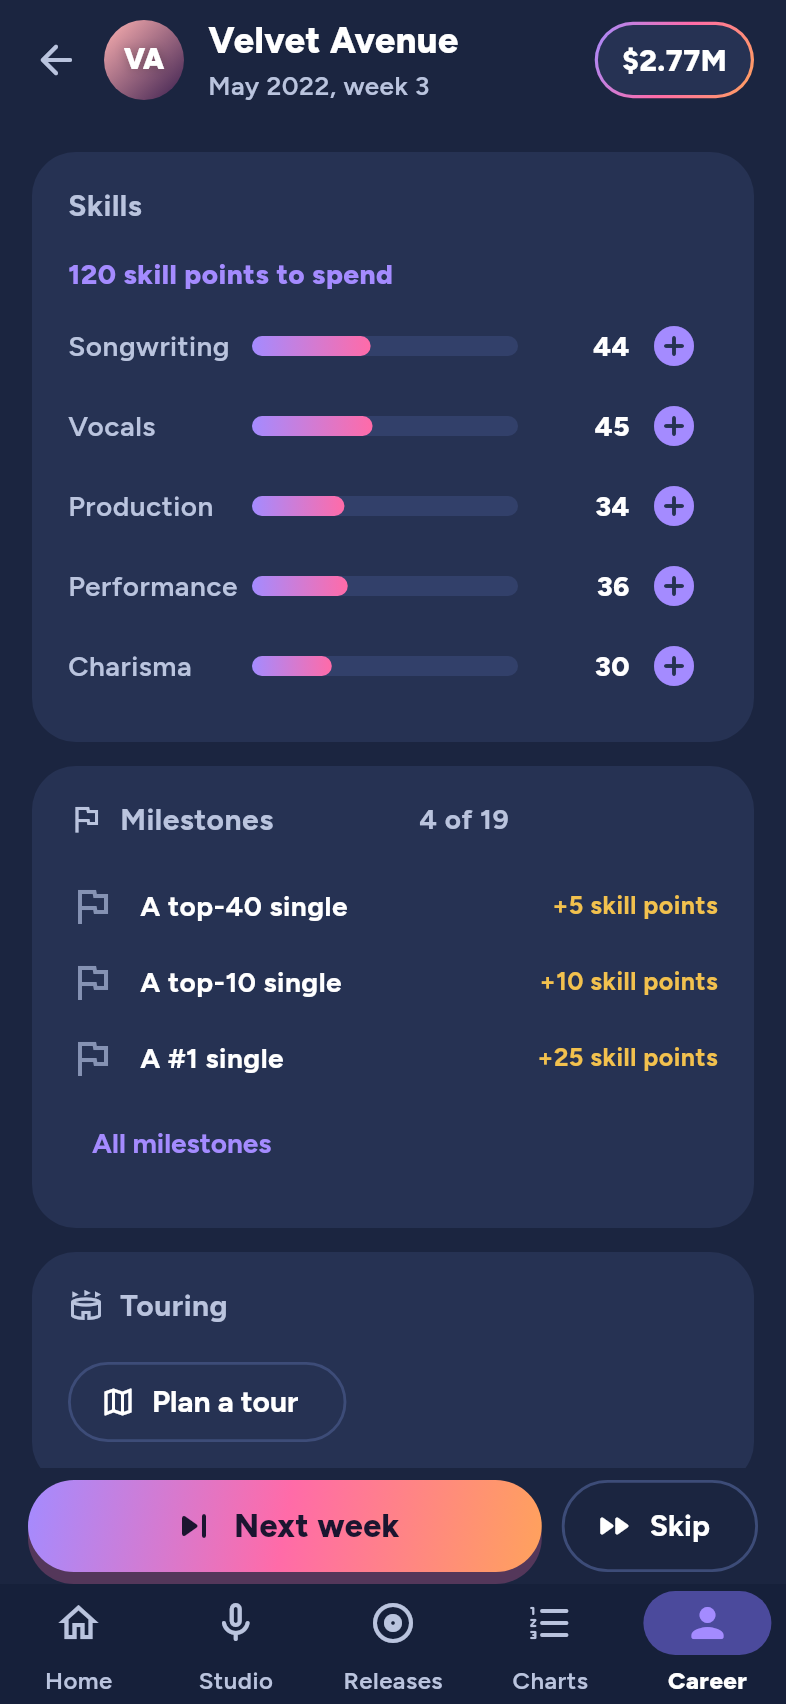
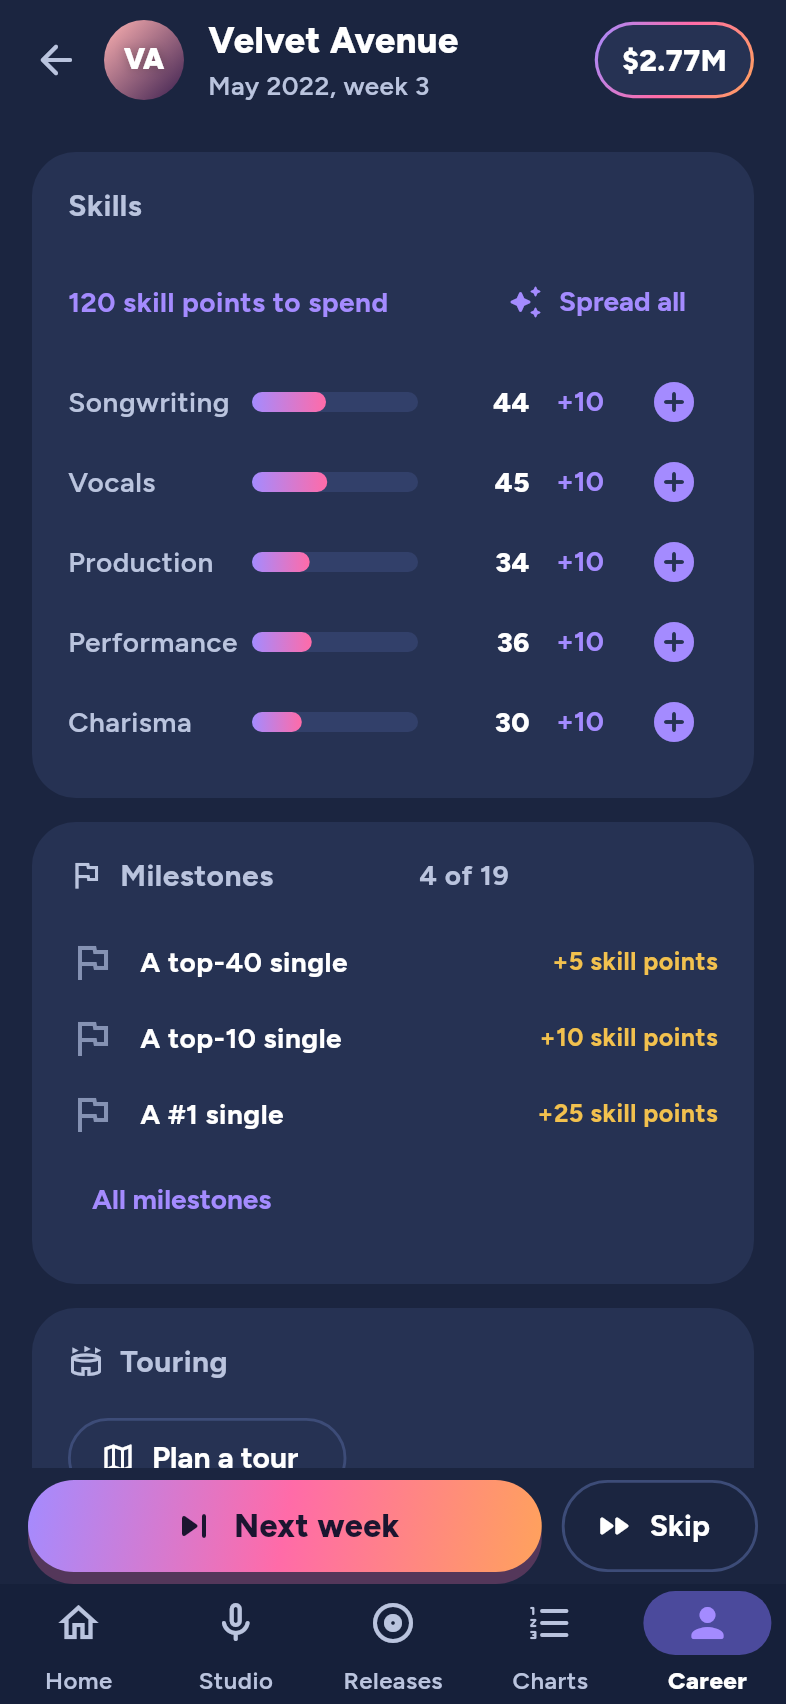
Skill points stop at what the skills can use; +10 and spread-all buttons (F34)
Claude-Session: https://claude.ai/code/session_01UqeaYiXbKvrTFgHV44HcjP

diff --git a/app/lib/screens/career_tab.dart b/app/lib/screens/career_tab.dart
@@ -252,26 +252,44 @@ class SkillsSection extends StatelessWidget {
       SkillKind.performance: l.statPerformance,
       SkillKind.charisma: l.statCharisma,
     };
-    Future<void> raise(SkillKind k) async {
+    Future<void> run(SessionCmd<Object?> cmd) async {
       try {
-        await career.act(Cmd.spendSkillPoint(k));
+        await career.act(cmd);
       } catch (e) {
         if (context.mounted) showError(context, e);
       }
     }
 
+    final maxed =
+        SkillKind.values.every((k) => p.skills[k]! >= Actions.maxSkill);
+
     return Section(
       title: l.skillsTitle,
       child: Column(crossAxisAlignment: CrossAxisAlignment.stretch, children: [
-        Text(
-          p.skillPoints > 0
-              ? l.skillPointsLeft(p.skillPoints)
-              : l.skillPointsHint,
-          style: TextStyle(
-              color: p.skillPoints > 0 ? AppColors.lilac : AppColors.textMuted,
-              fontWeight:
-                  p.skillPoints > 0 ? FontWeight.w800 : FontWeight.w500),
-        ),
+        Row(children: [
+          Expanded(
+            child: Text(
+              p.skillPoints > 0
+                  ? l.skillPointsLeft(p.skillPoints)
+                  : maxed
+                      ? l.skillsMaxed
+                      : l.skillPointsHint(Actions.skillPointsPerWeek),
+              style: TextStyle(
+                  color:
+                      p.skillPoints > 0 ? AppColors.lilac : AppColors.textMuted,
+                  fontWeight:
+                      p.skillPoints > 0 ? FontWeight.w700 : FontWeight.w500),
+            ),
+          ),
+          // Many points at once, lowest skill first (docs F34).
+          if (p.skillPoints > 1)
+            TextButton.icon(
+              onPressed:
+                  career.busy ? null : () => run(Cmd.spreadSkillPoints()),
+              icon: const Icon(Icons.auto_awesome_rounded, size: 18),
+              label: Text(l.skillsSpreadAll),
+            ),
+        ]),
         const SizedBox(height: 6),
         for (final k in SkillKind.values)
           Row(children: [
@@ -282,12 +300,29 @@ class SkillsSection extends StatelessWidget {
                   text: p.skills[k]!.floor().toString()),
             ),
             SizedBox(
+              width: 50,
+              child: p.skillPoints > 1 && p.skills[k]! < Actions.maxSkill - 1
+                  ? TextButton(
+                      style: TextButton.styleFrom(
+                          padding: EdgeInsets.zero,
+                          visualDensity: VisualDensity.compact),
+                      onPressed: career.busy
+                          ? null
+                          : () => run(Cmd.spendSkillPoints(k, 10)),
+                      child: Text('+10',
+                          semanticsLabel: l.skillRaiseMany(names[k]!, 10)),
+                    )
+                  : null,
+            ),
+            SizedBox(
               width: 44,
               child: p.skillPoints > 0 && p.skills[k]! < Actions.maxSkill
                   ? IconButton(
                       tooltip: l.skillRaise(names[k]!),
                       visualDensity: VisualDensity.compact,
-                      onPressed: () => raise(k),
+                      onPressed: career.busy
+                          ? null
+                          : () => run(Cmd.spendSkillPoint(k)),
                       icon: Icon(Icons.add_circle_rounded,
                           color: AppColors.lilac),
                     )

diff --git a/packages/simulation_core/lib/src/actions.dart b/packages/simulation_core/lib/src/actions.dart
@@ -53,8 +53,47 @@ abstract final class Actions {
   static void spendSkillPoint(Artist a, SkillKind kind) {
     if (a.skillPoints <= 0) throw ActionException('No skill points');
     if (a.skills[kind] >= maxSkill) throw ActionException('Skill is maxed');
-    a.skills[kind] = math.min(maxSkill, a.skills[kind] + 1);
-    a.skillPoints--;
+    spendSkillPoints(a, kind, 1);
+  }
+
+  /// Points still useful for [kind]: what it lacks to [maxSkill].
+  static int skillRoomFor(Artist a, SkillKind kind) =>
+      math.max(0, (maxSkill - a.skills[kind]).ceil());
+
+  /// Points the artist could still use on all skills (docs F34).
+  static int skillRoom(Artist a) =>
+      SkillKind.values.fold(0, (t, k) => t + skillRoomFor(a, k));
+
+  /// Adds earned points, never more than the skills can still use: once
+  /// every skill is at [maxSkill] points stop piling up (docs F34).
+  static void grantSkillPoints(Artist a, int points) {
+    a.skillPoints = math.min(a.skillPoints + points, skillRoom(a));
+  }
+
+  /// Spends up to [count] points on [kind]; returns how many were spent.
+  static int spendSkillPoints(Artist a, SkillKind kind, int count) {
+    final n = math.min(count, math.min(a.skillPoints, skillRoomFor(a, kind)));
+    if (n <= 0) return 0;
+    a.skills[kind] = math.min(maxSkill, a.skills[kind] + n);
+    a.skillPoints -= n;
+    return n;
+  }
+
+  /// Spends every point, always on the lowest skill (docs F34).
+  static int spreadSkillPoints(Artist a) {
+    var spent = 0;
+    while (a.skillPoints > 0) {
+      SkillKind? low;
+      for (final k in SkillKind.values) {
+        if (a.skills[k] < maxSkill &&
+            (low == null || a.skills[k] < a.skills[low])) {
+          low = k;
+        }
+      }
+      if (low == null) break;
+      spent += spendSkillPoints(a, low, 1);
+    }
+    return spent;
   }
 
   /// Energy gained at the end of a week (before the job's cost).

diff --git a/packages/simulation_core/test/simulation_test.dart b/packages/simulation_core/test/simulation_test.dart
@@ -345,6 +345,32 @@ void main() {
     expect(a.moneyCents - money, greaterThan(done.netCents * 0.9));
   });
 
+  test('skill points stop at what the skills can use (F34)', () {
+    final w = WorldGen.create(seed: 34, startYear: 2015);
+    final p = WorldGen.addPlayer(w,
+        name: 'P', genre: 0, tier: StartTier.unknown, money: StartMoney.basic);
+    for (final k in SkillKind.values) {
+      p.skills[k] = 95;
+    }
+    Actions.grantSkillPoints(p, 1000);
+    expect(p.skillPoints, 25);
+    // Many at once, never past 100.
+    expect(Actions.spendSkillPoints(p, SkillKind.vocals, 10), 5);
+    expect(p.skills[SkillKind.vocals], Actions.maxSkill);
+    expect(p.skillPoints, 20);
+    // Spread: always the lowest skill, until all are full.
+    p.skills[SkillKind.charisma] = 90;
+    Actions.grantSkillPoints(p, 1000);
+    expect(p.skillPoints, 25); // 5 + 5 + 5 + 10 still to learn
+    expect(Actions.spreadSkillPoints(p), 25);
+    for (final k in SkillKind.values) {
+      expect(p.skills[k], Actions.maxSkill);
+    }
+    // Nothing left to learn: no more points.
+    Actions.grantSkillPoints(p, Actions.skillPointsPerWeek);
+    expect(p.skillPoints, 0);
+  });
+
   test('artists and collaborators never share a name (C6)', () {
     for (final real in [false, true]) {
       final w = WorldGen.create(seed: 6, startYear: 2015, realNames: real);

diff --git a/app/test/app_flow_test.dart b/app/test/app_flow_test.dart
@@ -134,6 +134,12 @@ void main() {
     await tester.tap(find.byTooltip('Raise Vocals'));
     await tester.pumpAndSettle();
     expect(points(), before - 1);
+    // All the rest at once, lowest skill first (F34).
+    await tester.ensureVisible(find.text('Spread all'));
+    await tester.pumpAndSettle();
+    await tester.tap(find.text('Spread all'));
+    await tester.pumpAndSettle();
+    expect(find.textContaining(left), findsNothing);
   });
 
   testWidgets('free players see Premium starts locked', (tester) async {
@@ -251,7 +257,7 @@ void main() {
     await tester.pumpAndSettle();
     await tester.tap(find.byType(ListTile).last);
     await tester.pumpAndSettle();
-    await tester.tap(find.text('In 4 weeks'));
+    await tester.tap(find.widgetWithText(ChoiceChip, 'In 4 weeks'));
     await tester.pumpAndSettle();
     expect(find.text('Out: January 2024, week 5'), findsOneWidget);
     await tester.tap(find.text('2 weeks before'));
@@ -281,7 +287,7 @@ void main() {
     await tester.pumpAndSettle();
     await tester.tap(find.text('Change date'));
     await tester.pumpAndSettle();
-    await tester.tap(find.text('In 6 weeks'));
+    await tester.tap(find.widgetWithText(ChoiceChip, 'In 6 weeks'));
     await tester.pumpAndSettle();
     await tester.ensureVisible(find.text('Save'));
     await tester.pumpAndSettle();

diff --git a/packages/game/lib/src/game_session.dart b/packages/game/lib/src/game_session.dart
@@ -232,6 +232,11 @@ class GameSession {
       p.labelReach = p.label.reach;
       world.dirtyArtists.add(p.id);
     }
+    // Points piled up before docs F34 shrink to what the skills can use.
+    if (p != null && p.skillPoints > Actions.skillRoom(p)) {
+      p.skillPoints = Actions.skillRoom(p);
+      world.dirtyArtists.add(p.id);
+    }
     return GameSession._(slots, slotId, store, world);
   }
 
@@ -887,6 +892,27 @@ class GameSession {
     }
     Actions.spendSkillPoint(_p, kind);
     _saveNow();
+  }
+
+  /// Spends up to [count] points on [kind] at once (docs F34); returns how
+  /// many were spent.
+  int spendSkillPoints(SkillKind kind, int count) {
+    if (_p.skillPoints <= 0) {
+      throw GameException('noSkillPoints', 'No skill points left');
+    }
+    if (_p.skills[kind] >= Actions.maxSkill) {
+      throw GameException('skillMaxed', 'This skill is maxed');
+    }
+    final n = Actions.spendSkillPoints(_p, kind, count);
+    _saveNow();
+    return n;
+  }
+
+  /// Spends every point, lowest skill first (docs F34).
+  int spreadSkillPoints() {
+    final n = Actions.spreadSkillPoints(_p);
+    _saveNow();
+    return n;
   }
 
   /// Shoots a music video for one of the player's songs (docs K52); it

diff --git a/packages/game/test/game_test.dart b/packages/game/test/game_test.dart
@@ -209,6 +209,25 @@ void main() {
       expect(summary['lastAlbumId'], isNonNegative);
     });
 
+    test('piled-up skill points shrink to what is usable (F34)', () {
+      var g = GameSession.start(slots, _setup());
+      final id = g.slotId;
+      final p = g.world.player!;
+      final room = Actions.skillRoom(p);
+      p.skillPoints = 5000; // as saved before F34
+      g.world.dirtyArtists.add(p.id);
+      g.writeSong(budget: BudgetTier.low); // any action saves
+      g.close();
+      g = GameSession.resume(slots, id);
+      expect(g.player.skillPoints, room);
+      final before = g.player.skills[SkillKind.vocals]!;
+      expect(g.spendSkillPoints(SkillKind.vocals, 10), 10);
+      expect(g.player.skills[SkillKind.vocals], before + 10);
+      expect(g.spreadSkillPoints(), room - 10);
+      expect(g.player.skillPoints, 0);
+      g.close();
+    });
+
     test('older saves get the independent reach of docs K70', () {
       var g = GameSession.start(slots, _setup());
       final id = g.slotId;

diff --git a/app/lib/core/commands.dart b/app/lib/core/commands.dart
@@ -191,6 +191,11 @@ abstract final class Cmd {
   static SessionCmd<void> spendSkillPoint(SkillKind kind) =>
       (s) => s.spendSkillPoint(kind);
 
+  static SessionCmd<int> spendSkillPoints(SkillKind kind, int count) =>
+      (s) => s.spendSkillPoints(kind, count);
+
+  static SessionCmd<int> spreadSkillPoints() => (s) => s.spreadSkillPoints();
+
   static SessionCmd<void> rewardAd() => (s) => s.rewardAd();
 
   static SessionCmd<bool> dailyBonus(bool premium) =>

diff --git a/packages/simulation_core/lib/src/simulator.dart b/packages/simulation_core/lib/src/simulator.dart
@@ -1142,7 +1142,7 @@ class Simulator {
     p.moneyCents += p.manager.net(cents * p.artistShare).round();
     // The label takes no cut of the day job.
     p.moneyCents += p.job.wageCents;
-    p.skillPoints += Actions.skillPointsPerWeek;
+    Actions.grantSkillPoints(p, Actions.skillPointsPerWeek);
     // Side benefits of some jobs (docs K36).
     final s = p.skills;
     switch (p.job) {

diff --git a/packages/game/lib/src/milestones.dart b/packages/game/lib/src/milestones.dart
@@ -135,7 +135,7 @@ enum Milestone {
   bool mark(World w, Artist p) {
     if (p.milestones.containsKey(index)) return false;
     p.milestones[index] = w.week;
-    p.skillPoints += skillPoints;
+    Actions.grantSkillPoints(p, skillPoints);
     w.dirtyArtists.add(p.id);
     return true;
   }

diff --git a/tools/l10n/gen_arb.py b/tools/l10n/gen_arb.py
@@ -671,8 +671,11 @@ k('stepSkillsBody','{count} points waiting. Better skills make better songs.','{
 k('goCareer','Open Career','Kariyere git')
 k('skillsTitle','Skills','Yetenekler')
 k('skillPointsLeft','{count} skill points to spend','Harcanacak {count} yetenek puanı', count='int')
-k('skillPointsHint','You get 1 skill point every week. Each skill goes up to 100.','Her hafta 1 yetenek puanı kazanırsın. Her yetenek 100’e kadar çıkar.')
+k('skillPointsHint','You get {count} skill points every week. Each skill goes up to 100.','Her hafta {count} yetenek puanı kazanırsın. Her yetenek 100’e kadar çıkar.', count='int')
 k('skillRaise','Raise {skill}','{skill} artır', skill='String')
+k('skillRaiseMany','Raise {skill} by {count}','{skill} +{count}', skill='String', count='int')
+k('skillsSpreadAll','Spread all','Hepsini dağıt')
+k('skillsMaxed','Every skill is at 100: there is nothing left to learn, so no more points come.','Bütün yetenekler 100: öğrenecek bir şey kalmadı, artık puan gelmez.')
 k('singleUnits','Single units','Single üniteleri')
 k('singleUnitsHint','Sales + streams ÷ 150','Satış + stream ÷ 150')
 k('stepJobBody','Money is tight. A day job pays every week.','Para azaldı. Gündelik bir iş her hafta maaş öder.')

diff --git a/docs/README.md b/docs/README.md
@@ -99,6 +99,7 @@ Bu kararlar alınmıştır; değiştirmek için bilinçli bir revizyon gerekir.
 | K69 | **Liste savaşı (F9):** oyuncunun albümü (veya single'ı) büyük bir rakibinkiyle (üst lig veya ün ≥ %35) aynı hafta çıkarsa, o haftanın ABD listesinde kimin önde bittiği büyük haber olarak gelir (rakip: o hafta çıkan en büyük rakip yayını). İki şarkı da listeye girmediyse savaş yok. Büyük rakip albümleri 8 hafta önceden bilinir: Yayınlar sekmesinin sonunda "Yaklaşan büyük çıkışlar" listesi var. Çıkış tarihi seçerken o hafta büyük bir rakip albümü varsa "liste savaşı!" uyarısı çıkar; böylece büyük bir isimle kapışmak ya da ondan kaçmak oyuncunun kararı olur. |
 | K70 | **Zorluk (F30, F32):** Ölçüm aracı `packages/game/tool/career_probe.dart` (6 dünya, makul bir oyuncu stratejisi: beceri puanları, reklam, yoksulken iş, en iyi uygun ekip, 6 haftada bir single, yılda bir albüm). Bedava başlangıç 2010, Gerçekçi: bugünkü değişikliklerden önce 4. yılda Top 10 hit ve ~$2,4M; K66 sonrası 4 yılda **hiç hit yok**, $64K. Sebep: gerçek isimli dünyada rakip kitlesi daha büyüktü (gerçek sanatçıların çoğu ABD'li, gerçek yıldızlara ekstra hayran/hype, kurucu yıldızlara A becerisi, kalıcı yüksek plak erişimi birikiyordu): aynı şarkılar Kuzey Amerika'da ~%27 az dinlendi. Düzeltmeler: (1) Gerçek sanatçı, rakip yerinin zar atılmış ülkesinden seçilir (uydurma dünyanın ülke karışımı korunur). (2) Gerçek yıldıza ekstra hayran ve hype yok; A becerisi ve yüksek plak erişimi sadece çıkış yaptığı yıl gelen yıldızlara; erişim 6 yıl sonra 1,0'a iner (`realStarPushYears`). Gerçek ve uydurma dünya kitlesi artık ±%5 (test). 2018–2021 #1'leri yine dönemin yıldızları (Billie Eilish, Lil Baby, Morgan Wallen, Khalid…). (3) Bağımsız plak erişimi 0,7 → **0,85** (0,7 ile şirketsiz liste neredeyse imkânsızdı, küçük şirkete girince ise 2. yılda her şey #1 oluyordu); eski kayıtlarda oyuncunun erişimi açılışta şirketine göre güncellenir. (4) Oyuncunun fame'i popülerliğe haftada %2 yerine **%4** yaklaşır (rakipler %2'de kalır). Sonuç (bedava, bağımsız, Gerçekçi): 1–2. yıl hit yok, 3. yılda ilk Top 10, 4. yıl ~$8M ve fame ~%16, 5. yılda fame ~%43–50; küçük şirketle her şey ~1 yıl önce. 4–5. yıldan sonra hakimiyet hâlâ hızlı (F24, Emir'le konuşulacak). JT tekrarı (Gerçekçi): toplam 107M albüm birimi, FS/LS ilk hafta 910K. |
 | K71 | **Kasadaki taslak albümler (F31):** Albüm/EP/mixtape oluşturucuda "Kasada sakla": isim, parçalar, versiyonlar ve kapak hazır, tarih yok. Hiçbir şey ödenmez, şarkılar başka albüme konamaz (ama single olarak çıkabilir), yıllarca bekleyebilir. Releases sekmesinde "Kasadaki taslaklar": şimdi yayınla (kampanya seçilir), tarih seç (normal zamanlama ve duyuru; kampanya ve versiyonlar o an ödenir) ya da sil (şarkılar kasaya döner). Taslağın kapağı yayınlanan albüme geçer. Motor: tarihi olmayan zamanlanmış yayın (`ScheduledRelease.draftWeek`), haftalık zamanlayıcı onu hiç çıkarmaz. |
+| K72 | **Yetenek puanı sınırı ve toplu harcama (F34):** Kazanılan puan (haftalık 5 ve kilometre taşları) en fazla yeteneklerin 100'e kalan toplamı kadar birikir; bütün yetenekler 100 olunca puan gelmez ve ekranda "öğrenecek bir şey kalmadı" yazar. Eski kayıtlarda biriken stok açılışta bu sınıra iner. Harcama: "+" (1), "+10" ve "Hepsini dağıt" (her puan o an en düşük yeteneğe). |
 | K23 | ChatGPT planındaki ekranlar, rekorlar, kampanyalar, finans, bildirimler, ödüller, Kolay mod ve 10 performans kuralı dokümanlara taşındı. |
 
 ## Yol Haritası

diff --git a/docs/feedback.md b/docs/feedback.md
@@ -95,8 +95,8 @@ Kaynak: **E** = Emir'in notu, **T** = Claude'un test oyunu. Öncelik: **1** = ö
 | F30 | **Oyun çok zor; "tired of your recent campaigns" kalksın** (Emir: "Britney 3 senede 3 albüm yayınlamıştı prime zamanında ve hepsi tutmuştu… hala smashleyemedim, şarkı çıkarıp para kazanmam lazım"). | ✅ Kampanya yorgunluğu tamamen kaldırıldı (K57 notu). ✅ K70: zorluğun asıl sebebi gerçek isimli dünyada rakip kitlesinin büyümesiydi (aynı şarkılar ~%27 az dinleniyordu); düzeltildi. Bağımsız erişim 0,85 oldu. Bedava başlangıçta ilk Top 10 artık 3. yılda, küçük şirketle 2. yılda. |
 | F31 | **Albümü hazırlayıp kasada tutmak** (Emir): "Bide albüm yapıp vaultta tutabilme özelliği istiyorum. Belki 3 yıl sonra yayınlarım?" | ✅ K71: oluşturucuda "Kasada sakla"; Releases'ta "Kasadaki taslaklar" → şimdi yayınla, tarih seç ya da sil. Çıkana kadar para ödenmez, kapak albüme geçer. |
 | F32 | **Fame çok yavaş artıyor** (Emir): "60% olsam büyük şirkete gircem" (dev şirket fame %60 istiyor). | ✅ K70: oyuncunun fame'i 2 kat hızlı yükseliyor (rakipler aynı). Ölçümde bedava başlangıç 5. yılda %43–50, küçük şirketle 3. yılda ~%50. Dev şirket şartı (%60) aynı kaldı. |
-| F33 | **Dijital satış çağında bir single 46M sattı** (Emir, Gerçekçi mod, $1M'lık klip çekilmişti). Gerçekte en çok satan dijital single'lar ~20–30M civarı. | Not alındı; sıradaki işlerden sonra bakılacak: klip etkisi (K52) ve dijital satış yoğunlaşması (K44) birlikte ölçülecek. |
-| F34 | **Yetenek puanı sınırsız birikiyor** (Emir: "5k falan birikebiliyo"); puanları daha hızlı harcamak için bir yol istiyor (ör. birden çok puan birden). | Not alındı; sıradaki işlerden sonra. |
+| F33 | **Dijital satış çağında bir single 46M sattı** (Emir, Gerçekçi mod, $1M'lık klip çekilmişti). Gerçekte en çok satan dijital single'lar ~20–30M civarı. | ✅ **Emir'in kararı: kalsın.** Chartmasters dijital single'ları 1,5/10, fiziksel single'ları 3/10 sayıyor; biz hepsini 1/10 sayıyoruz, yani 46M bizim ölçekte makul. |
+| F34 | **Yetenek puanı sınırsız birikiyor** (Emir: "5k falan birikebiliyo"); puanları daha hızlı harcamak için bir yol istiyor (ör. birden çok puan birden). | ✅ K72: puanlar artık yeteneklerin kullanabileceği kadar birikir (her yeteneğin 100'e kalanı toplamı); hepsi 100 olunca puan gelmez, eski kayıtlardaki stok açılışta bu sınıra iner. Her yetenekte "+10", üstte "Hepsini dağıt" (hep en düşük yeteneğe). İpucu metni de düzeldi (haftada 5 puan, 1 değil). |
 | F35 | **Yetenekler doluyken $300'lık, tek başına yazılan şarkılar bile kolayca A/A+** (Emir). Bütçe ve ekip anlamını yitiriyor. T22 kararını ("kaliteli müzik smashlesin") yeniden düşünmek gerekebilir. | Not alındı; sıradaki işlerden sonra. |
 | F36 | **Notu (grade) gizlemek?** (Emir): "albümün hit olup olmayacağı çok bariz gibi". | Not alındı; F35 ile birlikte düşünülecek (ör. kesin not yerine belirsiz tahmin, gerçek not yayından sonra/eleştirmenle açılır). |
 
